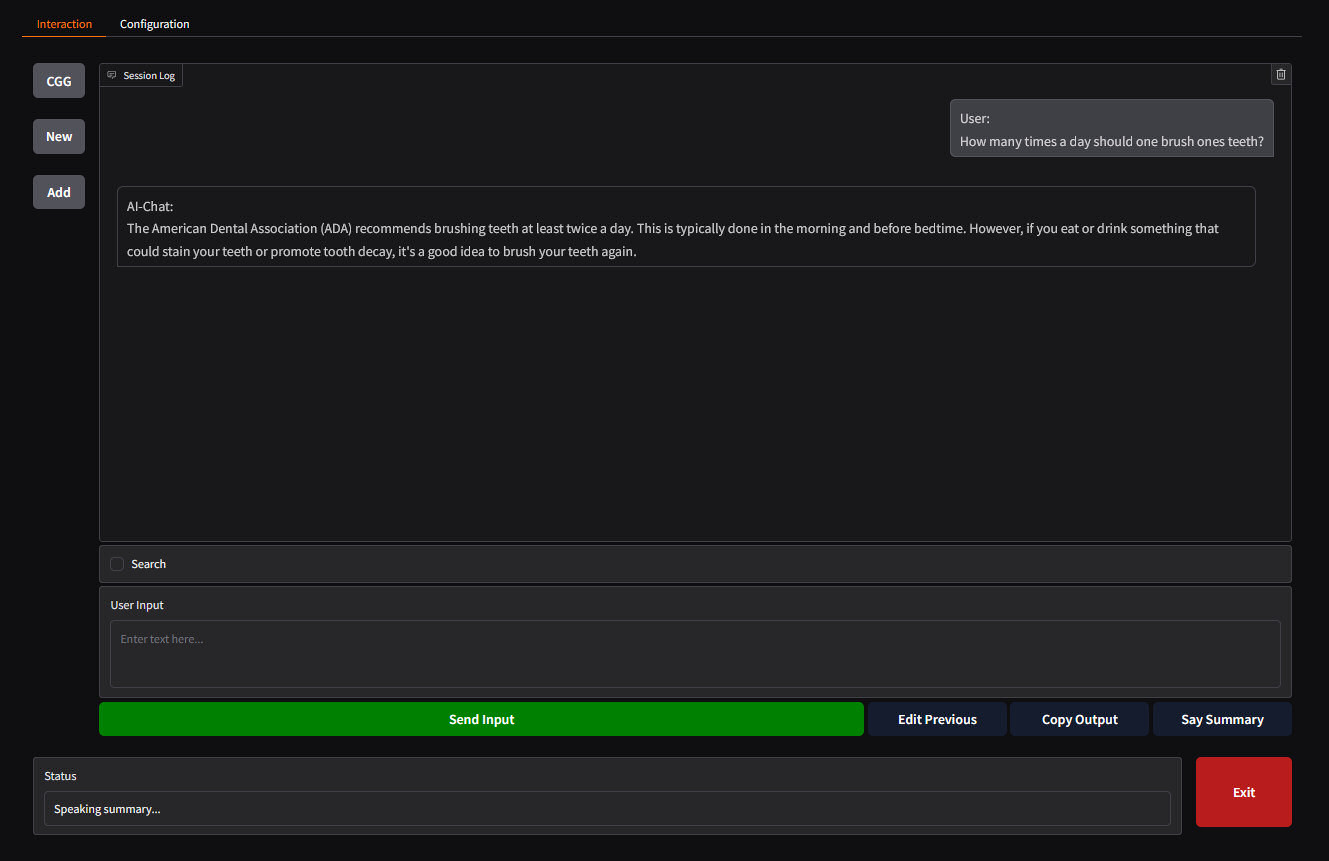
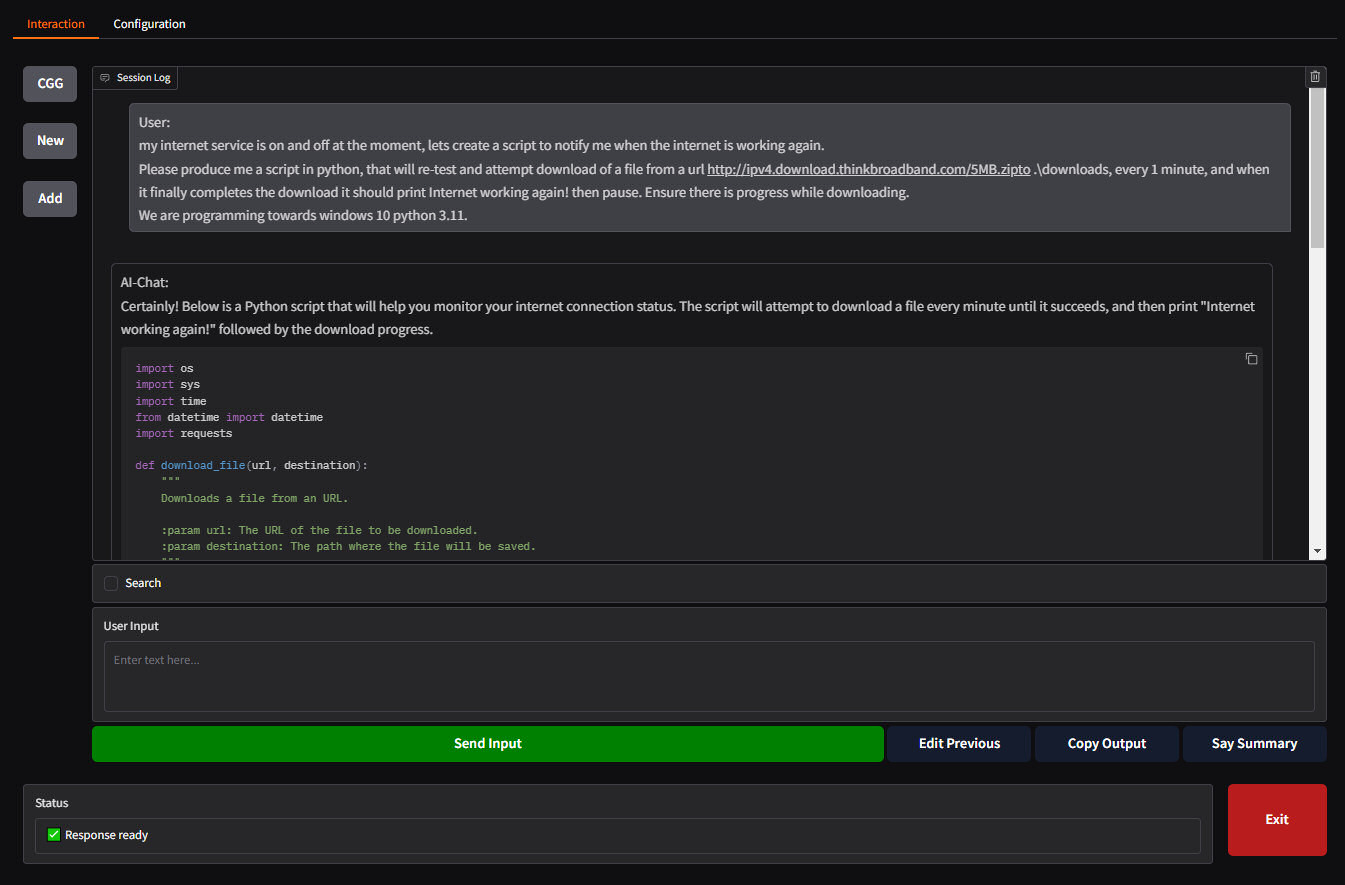
Fixed, streaming and format, of output.

Changed region(s): [[0.0, 0.0, 0.9872, 0.9965]]

diff --git a/scripts/interface.py b/scripts/interface.py
@@ -476,7 +476,7 @@ async def conversation_interface(user_input, session_log, loaded_files,
         models_loaded_state (bool): Whether the model is loaded.
     
     Yields:
-        tuple: 8 values corresponding to UI updates.
+        tuple: 8 values corresponding to UI updates (session_log, status_message, action_button, cancel_flag, loaded_files, interaction_phase, user_input_update, additional_update).
     """
     import gradio as gr
     from scripts import temporary, utility
@@ -512,9 +512,9 @@ async def conversation_interface(user_input, session_log, loaded_files,
             except Exception as e:
                 print(f"Error reading attached file {file}: {e}")
 
-    # Append user message and placeholder assistant response
+    # Append user message with prefix and placeholder assistant response
     session_log.append({'role': 'user', 'content': f"User:\n{user_input}"})
-    session_log.append({'role': 'assistant', 'content': ""})
+    session_log.append({'role': 'assistant', 'content': "AI-Chat: \n"})
     interaction_phase = "afterthought_countdown"
     yield session_log, "Processing...", update_action_button(interaction_phase), cancel_flag, loaded_files, interaction_phase, gr.update(interactive=False), gr.update()
 
@@ -528,28 +528,27 @@ async def conversation_interface(user_input, session_log, loaded_files,
         yield session_log, f"{current_progress} Afterthought countdown... {i}s", update_action_button(interaction_phase), cancel_flag, loaded_files, interaction_phase, gr.update(), gr.update()
         await asyncio.sleep(1)
         if cancel_flag:
-            session_log.pop()
+            session_log.pop()  # Remove the empty assistant message
             interaction_phase = "waiting_for_input"
             yield session_log, "Input cancelled.", update_action_button(interaction_phase), False, loaded_files, interaction_phase, gr.update(interactive=True, value=original_input), gr.update()
             return
 
     # Begin response generation
-    prefix = "AI-Chat:"
     interaction_phase = "generating_response"
     settings = get_model_settings(temporary.MODEL_NAME)
 
     # Handle web search if enabled
     search_results = None
     if web_search_enabled:
-        session_log[-1]['content'] = "WORKFLOW:\nPRODUCE WEBSEARCH ---> PRODUCE ASSESSMENT"
+        session_log[-1]['content'] = "Workflow:\nPRODUCE WEBSEARCH ---> PRODUCE ASSESSMENT"
         yield session_log, "🔍 Performing web search...", update_action_button(interaction_phase), cancel_flag, loaded_files, interaction_phase, gr.update(), gr.update()
         search_results = await asyncio.to_thread(utility.web_search, user_input)
-        yield session_log, "✅ Web search completed." if search_results else "⚠ No web results.", update_action_button(interaction_phase), cancel_flag, loaded_files, interaction_phase, gr.update(), gr.update()
+        yield session_log, "AI-Chat: ✅ Web search completed." if search_results else "AI-Chat: \n ⚠ No web results.", update_action_button(interaction_phase), cancel_flag, loaded_files, interaction_phase, gr.update(), gr.update()
 
     # Set up streaming
     q = queue.Queue()
     cancel_event = threading.Event()
-    visible_response = ""
+    visible_response = "AI-Chat: \n"  # Start with prefix
 
     def run_generator():
         try:
@@ -575,7 +574,7 @@ async def conversation_interface(user_input, session_log, loaded_files,
         try:
             chunk = q.get_nowait()
         except queue.Empty:
-            await asyncio.sleep(0.01)  # Optimized delay when queue is empty
+            await asyncio.sleep(0.01)  # Brief delay when queue is empty
             continue
 
         if chunk is None:
@@ -583,33 +582,33 @@ async def conversation_interface(user_input, session_log, loaded_files,
 
         if cancel_flag:
             cancel_event.set()
-            session_log[-1]['content'] = "Generation cancelled."
+            session_log[-1]['content'] = "AI-Chat: Generation cancelled."
             yield session_log, "Cancelled", update_action_button(interaction_phase), False, loaded_files, interaction_phase, gr.update(), gr.update()
             break
 
         if chunk == "<CANCELLED>":
-            session_log[-1]['content'] = "Generation cancelled."
+            session_log[-1]['content'] = "AI-Chat: Generation cancelled."
             yield session_log, "Cancelled", update_action_button(interaction_phase), False, loaded_files, interaction_phase, gr.update(), gr.update()
             break
 
         if isinstance(chunk, str) and chunk.startswith("Error:"):
-            session_log[-1]['content'] = chunk
+            session_log[-1]['content'] = f"AI-Chat: {chunk}"
             yield session_log, f"⚠ {chunk}", update_action_button("waiting_for_input"), False, loaded_files, "waiting_for_input", gr.update(interactive=True), gr.update()
             return
 
-        # Stream updates (no hidden sentences or TOT logic)
+        # Stream updates with prefix maintained
         visible_response += chunk
-        session_log[-1]['content'] = f"{prefix}\n{visible_response}"
+        session_log[-1]['content'] = visible_response
         yield session_log, "Streaming Response...", update_action_button(interaction_phase), cancel_flag, loaded_files, interaction_phase, gr.update(), gr.update()
         await asyncio.sleep(0.05)  # Allow UI to update
 
-    # Finalize response
+    # Finalize response with prefix
     if visible_response:
-        final_content = filter_operational_content(f"{prefix}\n{visible_response}")
-        session_log[-1]['content'] = final_content
-        utility.save_session_history(session_log, temporary.session_attached_files)  # No vector files
+        final_content = filter_operational_content(visible_response)
+        session_log[-1]['content'] = final_content  # Prefix already included
+        utility.save_session_history(session_log, temporary.session_attached_files)
     else:
-        session_log[-1]['content'] = f"{prefix}\n(Empty response)"
+        session_log[-1]['content'] = "AI-Chat: (Empty response)"
 
     interaction_phase = "waiting_for_input"
     yield session_log, "✅ Response ready", update_action_button(interaction_phase), False, loaded_files, interaction_phase, gr.update(interactive=True, value=""), gr.update()
@@ -668,7 +667,7 @@ def launch_interface():
             with gr.Tab("Interaction"):
                 with gr.Row():
                     # Expanded left column
-                    with gr.Column(visible=True, min_width=325, elem_classes=["clean-elements"]) as left_column_expanded:
+                    with gr.Column(visible=True, min_width=300, elem_classes=["clean-elements"]) as left_column_expanded:
                         toggle_button_expanded = gr.Button("Chat-Gradio-Gguf", variant="secondary")
                         panel_toggle = gr.Radio(
                             choices=["History", "Attach"],
@@ -717,7 +716,7 @@ def launch_interface():
                             label="Session Log",
                             height=temporary.SESSION_LOG_HEIGHT,
                             elem_classes=["scrollable"],
-                            type="messages"
+                            type="messages"  # No role_to_name here
                         )
                         # Search enhancement row
                         with gr.Row(elem_classes=["clean_elements"]):

diff --git a/scripts/models.py b/scripts/models.py
@@ -308,7 +308,7 @@ def get_response_stream(session_log, settings, web_search_enabled=False, search_
         web_search_enabled=web_search_enabled,
         is_reasoning=settings.get("is_reasoning", False),
         is_roleplay=settings.get("is_roleplay", False)
-    )
+    ) + "\nDo not include 'AI-Chat:' or any prefixes in your responses."
     if not isinstance(system_message, str):
         yield f"Error: system_message from get_system_message is not a string, got {type(system_message)}: {system_message}"
         return
@@ -365,8 +365,8 @@ def get_response_stream(session_log, settings, web_search_enabled=False, search_
         yield "Error: No user input to process."
         return
 
-    # Reserve tokens for the assistant’s response
-    response_reserve_tokens = 512  # Adjust based on expected response length
+    # Reserve tokens for the assistant’s response, scaled to batch size
+    response_reserve_tokens = temporary.BATCH_SIZE // 8  # e.g., 512 for batch size 4096
 
     # Calculate available tokens for history
     available_tokens = n_ctx - system_tokens - user_tokens - response_reserve_tokens
@@ -414,7 +414,9 @@ def get_response_stream(session_log, settings, web_search_enabled=False, search_
         return is_creative_task or is_long_input or (is_interactive_mode and input_length > 50)
 
     stream_enabled = should_stream(user_query, settings)
-    n_batch = 16 if stream_enabled else temporary.BATCH_SIZE
+
+    # Set max_tokens based on streaming, scaled to batch size
+    max_tokens = temporary.BATCH_SIZE // 2 if stream_enabled else temporary.BATCH_SIZE  # e.g., 2048 or 4096
 
     # Validate and cast settings to float
     try:
@@ -429,41 +431,35 @@ def get_response_stream(session_log, settings, web_search_enabled=False, search_
         if stream_enabled:
             response_stream = llm_state.create_chat_completion(
                 messages=messages,
-                max_tokens=n_batch,
+                max_tokens=4096,  # Temporary for testing
                 temperature=temperature,
                 repeat_penalty=repeat_penalty,
-                stream=True
+                stream=True,
+                stop=None
             )
-            buffer = ""
+            print(f"Debug: Starting streaming with max_tokens=4096")
+            chunk_count = 0
             for chunk in response_stream:
                 if cancel_event and cancel_event.is_set():
+                    print("Debug: Stream cancelled")
                     yield "<CANCELLED>"
                     return
                 if 'choices' in chunk and chunk['choices']:
                     content = chunk['choices'][0].get('delta', {}).get('content', '')
                     if content:
-                        buffer += content
-                        sentences = re.split(r'(?<=[.!?])\s+', buffer)
-                        buffer_sentences = []
-                        remaining_buffer = ""
-                        for s in sentences:
-                            if s.strip() and (s[-1] in '.!?'):
-                                buffer_sentences.append(s)
-                            else:
-                                remaining_buffer = s
-                        buffer = remaining_buffer
-                        for sentence in buffer_sentences:
-                            yield sentence
-            if buffer.strip():
-                yield buffer
+                        chunk_count += 1
+                        print(f"Debug: Chunk {chunk_count}: {repr(content)}")
+                        yield content
+            print(f"Debug: Stream ended after {chunk_count} chunks")
         else:
             response = llm_state.create_chat_completion(
                 messages=messages,
-                max_tokens=n_batch,
+                max_tokens=max_tokens,
                 temperature=temperature,
                 repeat_penalty=repeat_penalty,
                 stream=False
             )
-            yield response['choices'][0]['message']['content']
+            yield response['choices'][0]['message']['content']  # Moved inside else
     except Exception as e:
+        print(f"Debug: Exception: {str(e)}")
         yield f"Error generating response: {str(e)}\n{traceback.format_exc()}"
